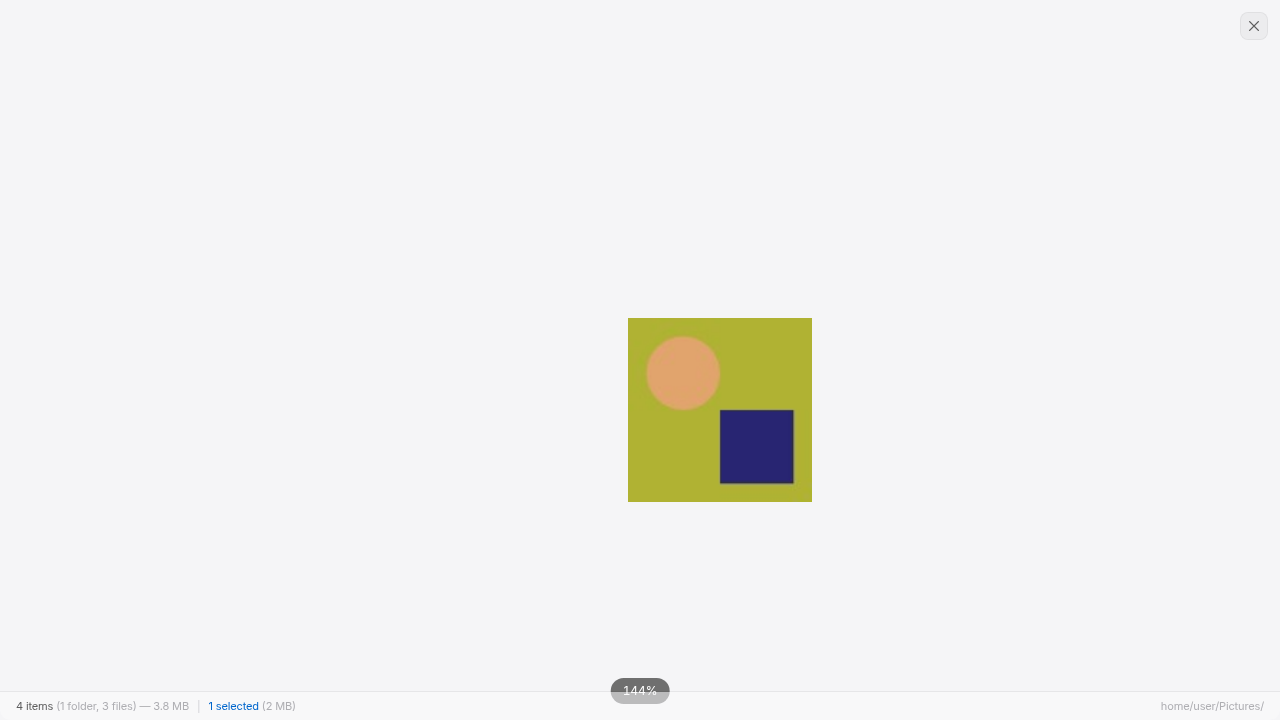
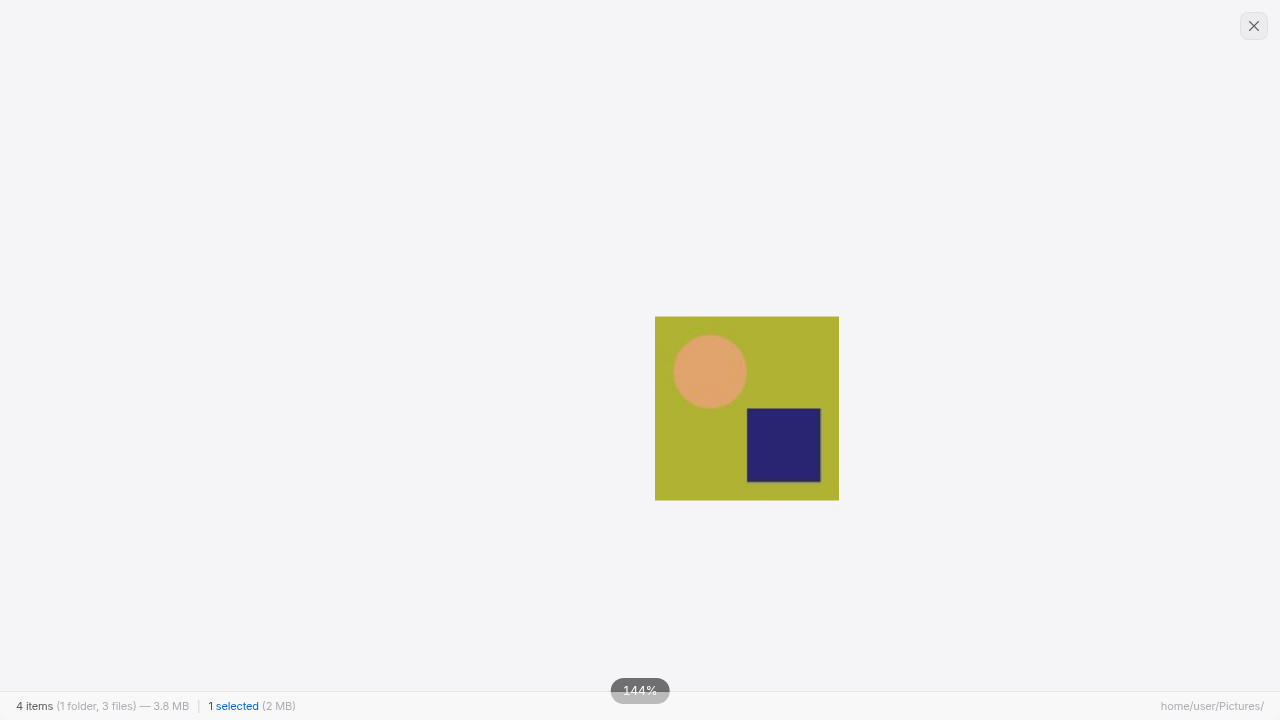
green: assert pointer-anchored preview zoom

Changed region(s): [[0.4688, 0.4278, 0.6562, 0.7028]]

diff --git a/e2e/image-preview-pan-performance.spec.ts b/e2e/image-preview-pan-performance.spec.ts
@@ -41,8 +41,14 @@ test("a zoomed image preview pans through a compositor-backed transform", async 
   // This capture is taken from the exact panned state asserted above.
   await page.screenshot({ path: "evidence/ac-1-panned-large-image.png" });
 
+  // Wheel from an off-center point. The transformed image must retain that
+  // point under the cursor, not zoom around the container's center.
+  await page.mouse.move(box!.x + box!.width / 2 - 100, box!.y + box!.height / 2 + 60);
   await page.mouse.wheel(0, -120);
-  await expect.poll(() => image.getAttribute("style")).not.toBe("transform: translate(80px, 50px) scale(1.25);");
+  await expect(image).toHaveAttribute(
+    "style",
+    /translate\(107px, 48\.5px\) scale\(1\.4375\)/,
+  );
 
   // Wheel zoom continues to update the same visible preview surface.
   await page.screenshot({ path: "evidence/ac-3-wheel-zoom-preview.png" });
